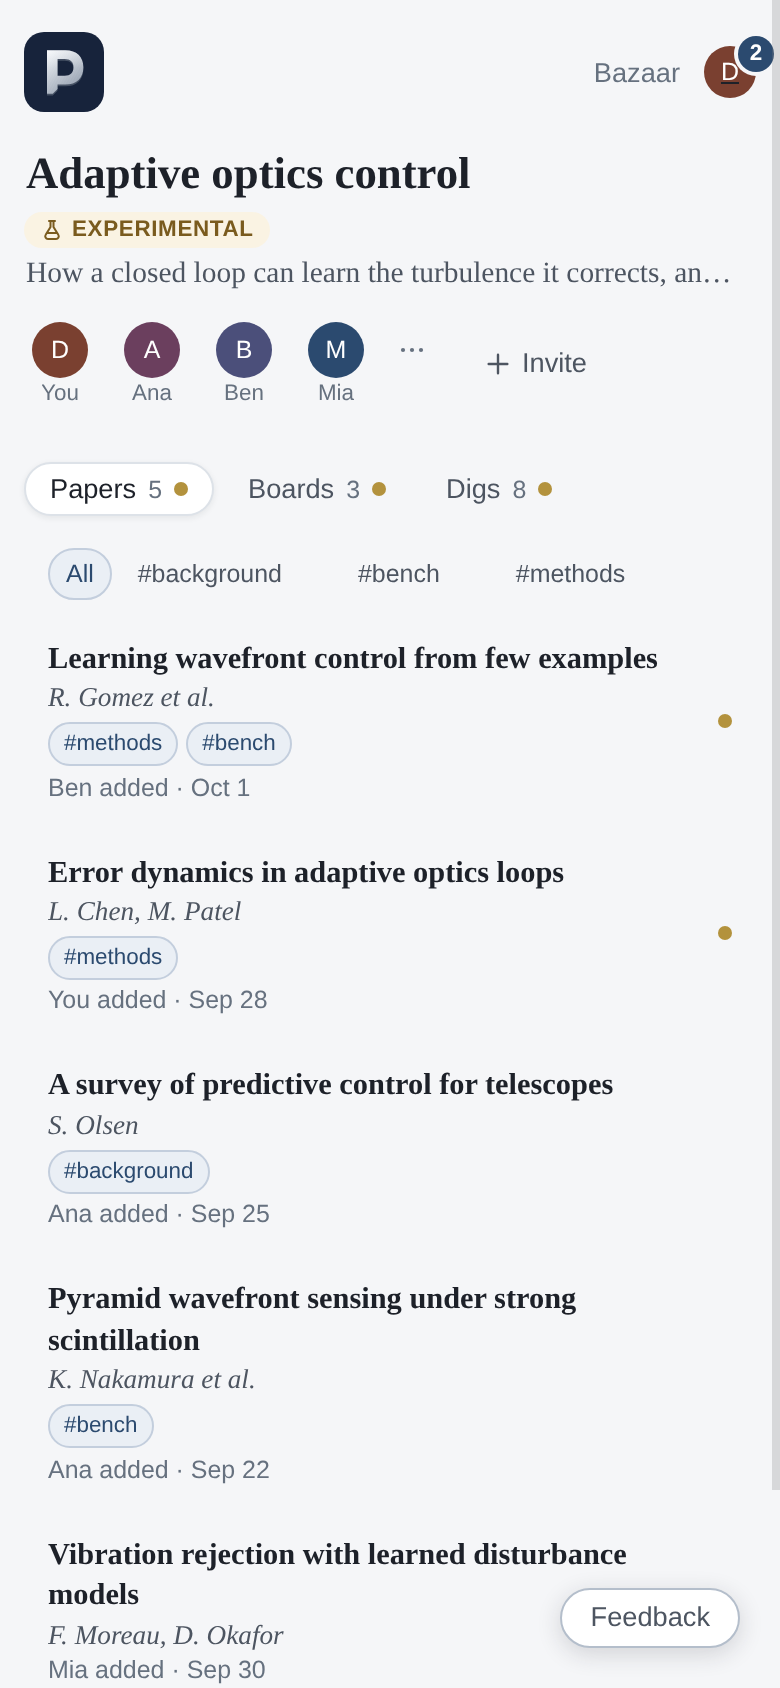
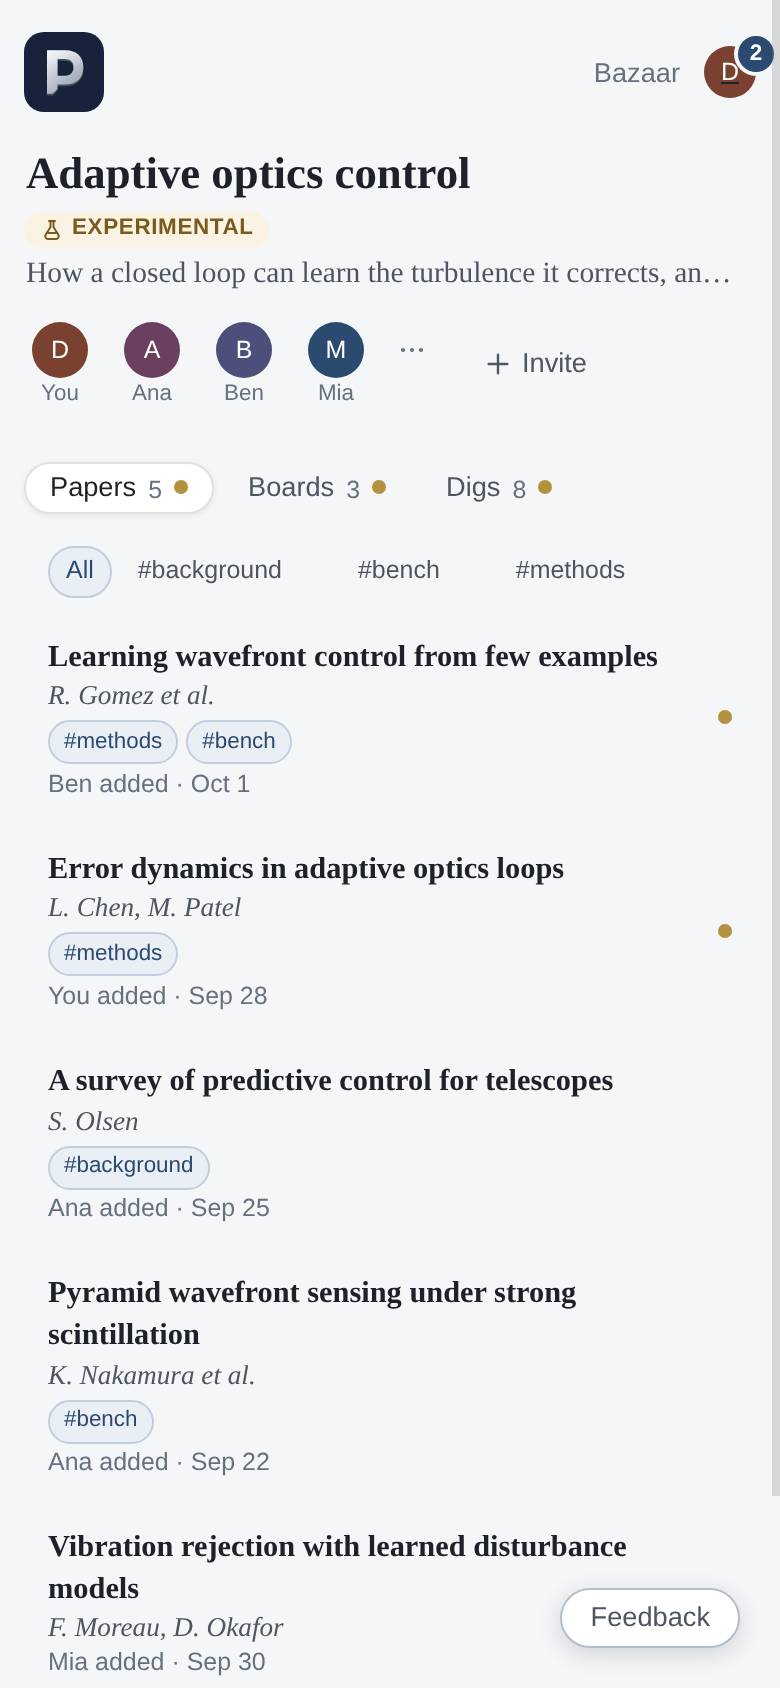
Unify text centering across chips

diff --git a/shared/applicationStyles.js b/shared/applicationStyles.js
@@ -5241,14 +5241,14 @@ button.project-quiet.project-danger:hover:not(:disabled) { background: var(--red
 .project-tag-filter > .project-tag-delete:hover, .project-tag-filter > .project-tag-delete:focus-visible { border-color: transparent; background: var(--red-soft); color: var(--red); }
 .project-tags-none { margin: var(--space-5) var(--space-3); color: var(--ink-faint); font: var(--fs-sm) var(--font-ui); }
 .project-tag-filter-error { margin: 0 var(--space-3) var(--space-2); color: var(--red); font: var(--fs-xs) var(--font-ui); }
-.project-paper-tags { display: flex; flex-wrap: wrap; align-items: baseline; gap: 4px; margin-top: 4px; font-family: var(--font-ui); }
-.project-paper-tag-list { display: inline-flex; flex-wrap: wrap; align-items: baseline; gap: 4px; margin-top: 4px; }
+.project-paper-tags { display: flex; flex-wrap: wrap; align-items: center; gap: 4px; margin-top: 4px; font-family: var(--font-ui); }
+.project-paper-tag-list { display: inline-flex; flex-wrap: wrap; align-items: center; gap: 4px; margin-top: 4px; }
 .project-paper-tags > .project-paper-tag-list { margin-top: 0; }
-.project-paper-tag { display: inline-flex; align-items: baseline; justify-content: center; box-sizing: border-box; height: 22px; padding: 0 7px; border: 1px solid var(--accent-line); border-radius: var(--radius-pill); background: var(--accent-soft); color: var(--accent); font: 500 var(--fs-2xs)/20px var(--font-ui); }
-.project-tag-edit { display: inline-flex; align-items: baseline; justify-content: center; box-sizing: border-box; height: 22px; min-height: 0; padding: 0 5px; border: 0; background: transparent; box-shadow: none; color: var(--ink-faint); font: 500 var(--fs-2xs)/20px var(--font-ui); }
+.project-paper-tag { justify-content: center; height: 22px; padding: 0 7px; border: 1px solid var(--accent-line); border-radius: var(--radius-pill); background: var(--accent-soft); color: var(--accent); font: 500 var(--fs-2xs) var(--font-ui); }
+.project-tag-edit { justify-content: center; height: 22px; min-height: 0; padding: 0 5px; border: 0; background: transparent; box-shadow: none; color: var(--ink-faint); font: 500 var(--fs-2xs) var(--font-ui); }
 .project-tag-edit:hover:not(:disabled), .project-tag-edit:focus-visible { border: 0; background: transparent; color: var(--accent); }
 button.project-paper-tag.is-removable { gap: 4px; box-shadow: none; }
-.project-paper-tag-label, .project-paper-tag-remove { display: inline-block; line-height: 20px; }
+.project-paper-tag-label, .project-paper-tag-remove { display: inline-block; line-height: inherit; }
 button.project-paper-tag.is-removable .project-paper-tag-remove { color: var(--ink-faint); }
 button.project-paper-tag.is-removable:hover:not(:disabled), button.project-paper-tag.is-removable:focus-visible { border-color: var(--red); background: var(--red-soft); color: var(--red); }
 .project-tag-picker { position: relative; flex: 1 1 12rem; max-width: 18rem; }

diff --git a/shared/commonStyles.js b/shared/commonStyles.js
@@ -409,6 +409,28 @@ button:disabled {
   text-decoration: none;
 }
 
+/* Text inside every compact pill uses one centering mechanism. Component
+   rules still choose each chip's height, padding, colour and border; this
+   rule trims the inherited line box and centres that box in the pill.
+   New chip families wear .text-chip instead of rebuilding this geometry. */
+.text-chip,
+:where(
+  .chip, .nook-chip, .tag-chip, .user-filter, .author-tag, .badge,
+  .chip-pop-tag, .nook-effort,
+  .project-paper-tag, .project-tag-edit,
+  .project-tag-filters > button, .project-tag-filter > button,
+  .project-tab, .project-tab-new, .nook-projects-chip, .desk-tag,
+  .board-toolbar-project, .board-selection-menu button,
+  .board-group-arrange button, .board-notice button,
+  .dig-phase-word, .dig-phase-menu button, .talk-card-owners button,
+  .project-pill, .thing-face
+) {
+  display: inline-flex;
+  box-sizing: border-box;
+  align-items: center !important;
+  line-height: 1 !important;
+}
+
 /* The identity disc. Sizes come from the place it sits. */
 .avatar-initial,
 .avatar-img {

diff --git a/frontend/src/applicationStyles.test.js b/frontend/src/applicationStyles.test.js
@@ -11,6 +11,14 @@ test('shared application styles can be evaluated outside the app module', () => 
   assert.doesNotMatch(applicationStyles, /desktopChrome/);
 });
 
+test('textual chip families share one vertical-centering rule', () => {
+  const rule = applicationStyles.match(/\.text-chip,[\s\S]*?line-height: 1 !important;\n}/)?.[0] ?? '';
+  for (const family of ['.tag-chip', '.badge', '.project-paper-tag', '.project-tag-edit', '.desk-tag', '.chip-pop-tag']) {
+    assert.match(rule, new RegExp(family.replace('.', '\\.')), `${family} is outside the shared chip rule`);
+  }
+  assert.match(rule, /align-items: center !important/);
+});
+
 // A rule left open swallows every rule after it without a parse error.
 test('every block in the shared application styles is closed', () => {
   let depth = 0;
